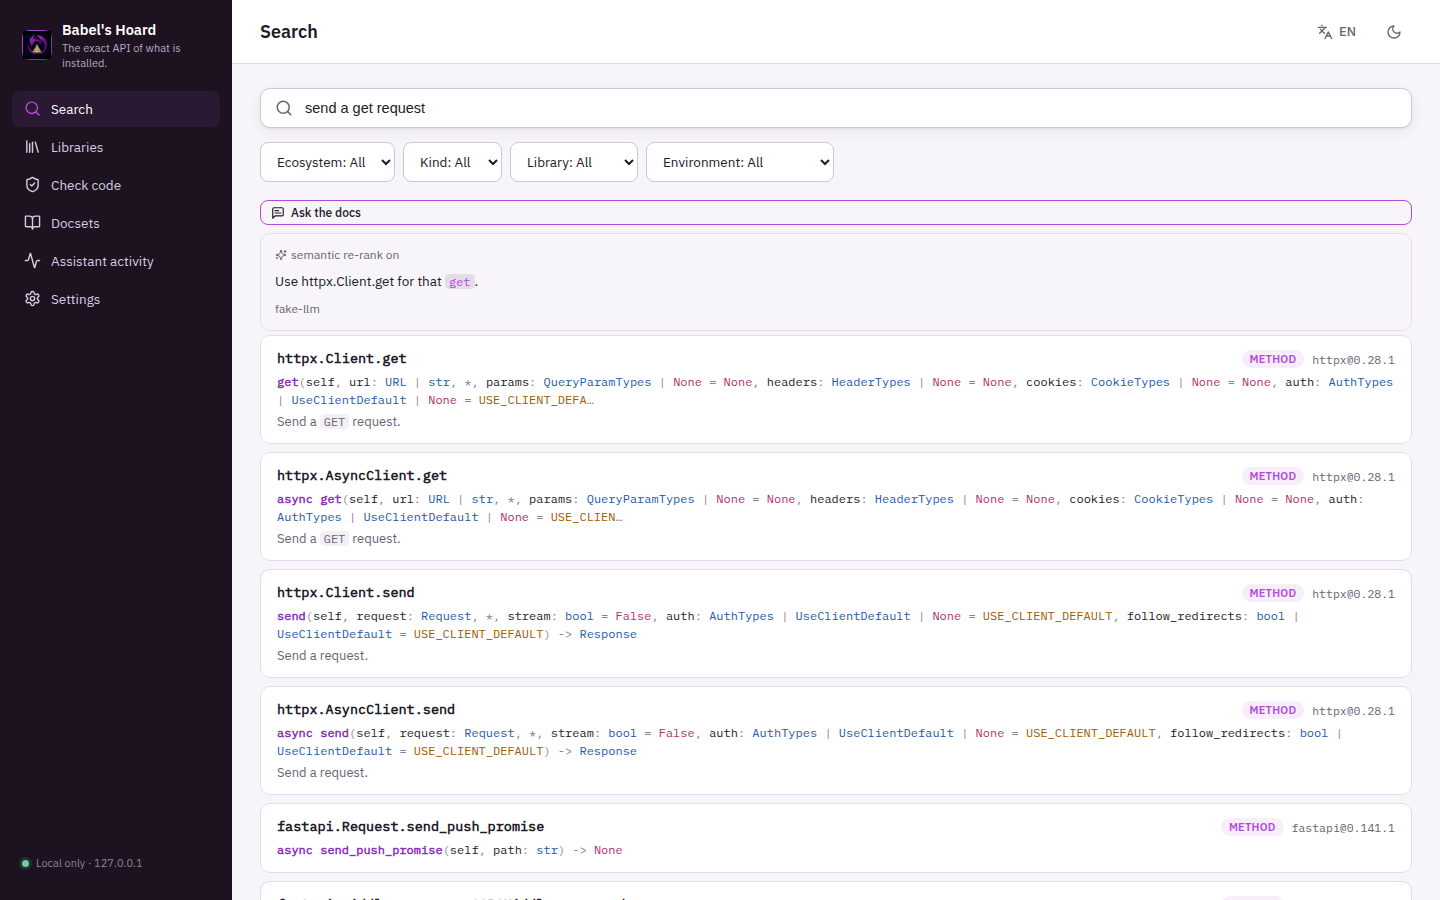
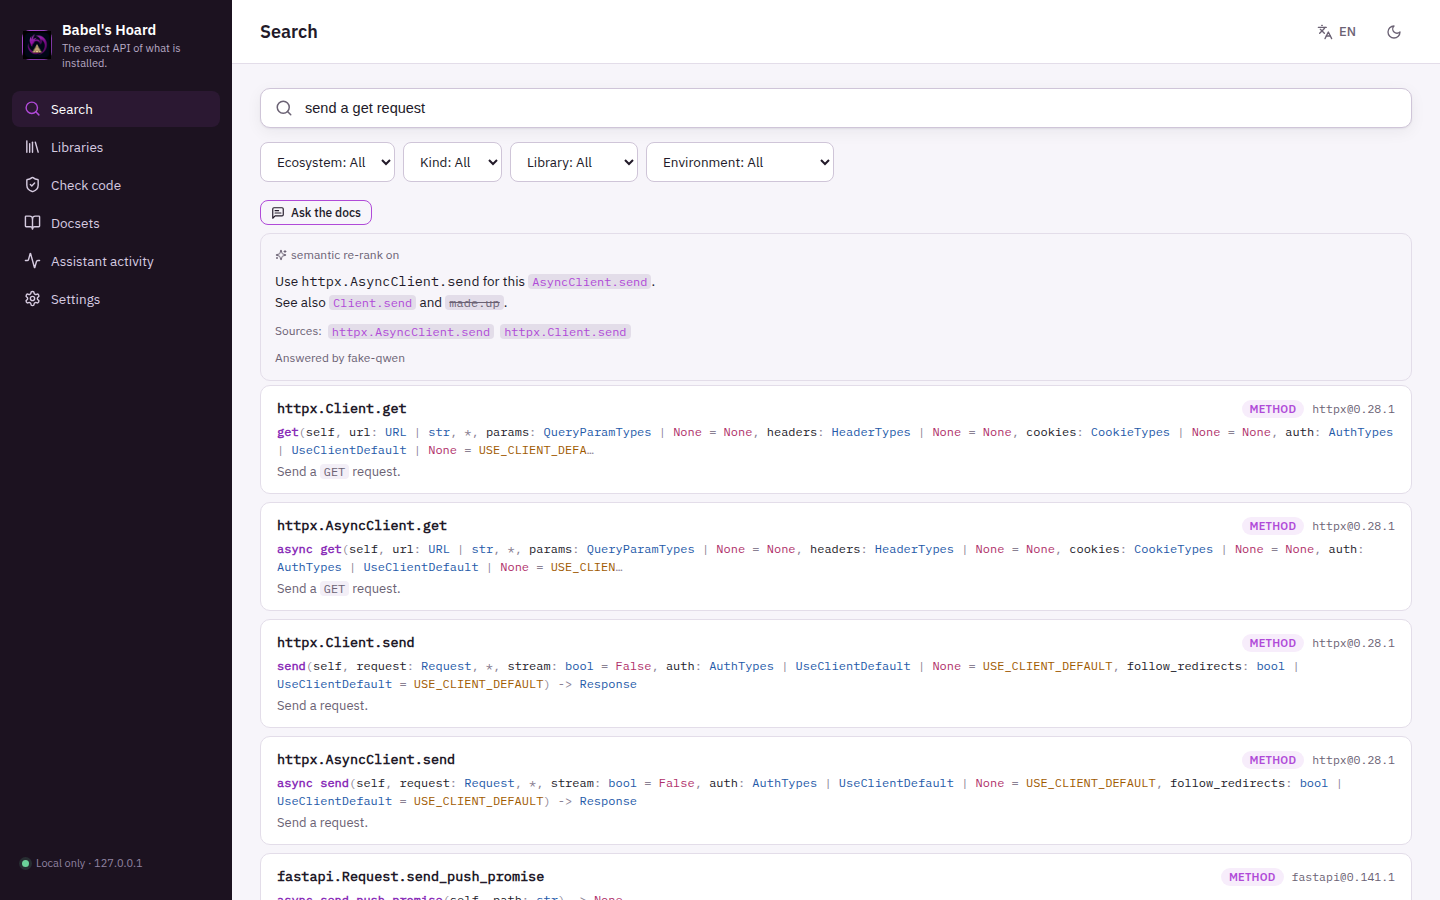
docs: describe the hybrid fusion and config safety, retake screenshots
READMEs and ARCHITECTURE now say what the code does after the review:
reciprocal-rank fusion instead of a pure cosine sort, cleared fields and
invalid values in the Models form, the broken-backend.json fallback, the
disabled (not hidden) Ask button, and the measured 126 tests. The loopback
list no longer names a specific third-party app. Screenshots retaken
against the --demo data with a local fake model server.

Claude-Session: https://claude.ai/code/session_019KVoFTp2agjwLaonbFXam5

diff --git a/README.es.md b/README.es.md
@@ -43,7 +43,7 @@ no puede demostrar se cuenta como `unchecked` (sin verificar).
 | Documentación sin conexión | Catálogo e instalación de DevDocs (HTML convertido a Markdown y dividido por anclas) como tarea en segundo plano | Necesita red, solo cuando lo pide el usuario o el modelo; el conversor es pequeño, no un renderizador HTML completo |
 | Carpetas de Markdown | `.md`/`.mdx`/`.rst`/`.txt` divididos por encabezado (respetando bloques de código y subrayados de rst) | Se omiten carpetas de dependencias, control de versiones y compilación; 2.000 archivos y 2 MB por archivo |
 | Auditoría del asistente | Cada llamada a `/api/agent/*` (herramienta, resumen de argumentos, duración, resultado) en «Actividad del asistente»; la interfaz usa sus propios endpoints, así que solo aparecen las llamadas del modelo | Solo local |
-| Preguntar a la documentación | Pantalla de Búsqueda: una pregunta se responde a partir de los mejores resultados de búsqueda (reordenados por el modelo de `embeddings` compartido cuando resuelve, o por orden léxico si no) con el modelo de `llm` compartido, con citas `[id]` que enlazan a la entrada exacta | Solo responde con lo ya indexado; es una función de la interfaz, no una herramienta MCP; se desactiva mostrando el motivo cuando ningún modelo resuelve |
+| Preguntar a la documentación | Pantalla de Búsqueda: una pregunta se responde a partir de los mejores resultados de búsqueda con el modelo de `llm` compartido, con citas `[id]` que enlazan a la entrada exacta (y una lista de Fuentes; un id inventado por el modelo aparece tachado). Cuando el modelo de `embeddings` compartido resuelve, los 50 mejores resultados léxicos se reordenan de forma híbrida (fusión por rango recíproco del orden léxico y el de embeddings, distintivo «reordenación semántica activa»); si no, orden léxico | Solo responde con lo ya indexado; es una función de la interfaz, no una herramienta MCP; se desactiva mostrando el motivo cuando ningún modelo resuelve |
 | Backend de modelos compartido | Ajustes → Modelos: qué servidor/modelo se usa ahora mismo para `llm`/`embeddings` y por qué, un botón «Comprobar de nuevo», ajustes manuales (URL/token de Faustus, URL/modelo por capacidad) | Ver [Modelos compartidos](#modelos-compartidos) más abajo |
 | Interfaz | Búsqueda, panel de símbolo, Librerías (paquetes instalados con su estado de indexado), Comprobar código (números de línea, avisos bajo cada línea), Docsets, Actividad del asistente y Ajustes; tema claro/oscuro, inglés/español | Un solo usuario, navegador local |
 
@@ -57,11 +57,14 @@ resultados de búsqueda primero (búsqueda híbrida) cuando hay uno
 disponible. Orden de resolución en una línea: un ajuste manual en Ajustes o
 en `backend.json`, luego el propio registro de modelos de una instancia de
 Faustus en marcha, luego un servidor ya escuchando en loopback (llama.cpp,
-Ollama, un servidor compatible con OpenAI) - **la aplicación
-funciona por completo sin ningún modelo conectado**; «Preguntar a la
-documentación» simplemente queda oculta tras un motivo honesto («No hay
-ningún modelo de lenguaje conectado...») y el resto de pantallas no se ven
-afectadas.
+Ollama, cualquier servidor compatible con OpenAI) - **la aplicación
+funciona por completo sin ningún modelo conectado**; el botón «Preguntar a
+la documentación» simplemente queda desactivado con un motivo honesto («No
+hay ningún modelo de lenguaje conectado...», y el detalle de la detección
+como descripción emergente) y el resto de pantallas no se ven afectadas. Un
+`backend.json` roto a mano nunca impide arrancar: la aplicación vuelve a la
+detección automática y Ajustes -> Modelos explica por qué se ignoró el
+archivo.
 
 ## Conectarlo a Faustus
 
@@ -141,7 +144,7 @@ las decisiones detrás del comprobador:
 .venv\Scripts\python -m pytest -q
 ```
 
-**121 tests, entre 50 y 85 s en un contenedor compartido de 2 CPU, sin red.** Cubren: la
+**126 tests, entre 50 y 85 s en un contenedor compartido de 2 CPU, sin red.** Cubren: la
 protección frente al navegador y el confinamiento de archivos estáticos
 (intentos de salir de la carpeta), la forma de los errores, las conexiones
 por hilo y que `/api/health` responda mientras corre una herramienta larga;
@@ -157,7 +160,9 @@ de JS/TS (requiere Node.js); el adaptador MCP lanzado con el **protocolo
 stdio real** contra la aplicación en marcha, incluidas palabras clave,
 anotaciones, ids que se pueden reutilizar y el paso de errores; y el
 backend de modelos compartido (`/api/backend*`, la persistencia de la
-configuración sin filtrar nunca el token de Faustus, y «Preguntar a la
+configuración sin filtrar nunca el token de Faustus, campos vaciados,
+valores no válidos rechazados antes de guardarse, un `backend.json` roto al
+arrancar, y «Preguntar a la
 documentación» - desactivada, pregunta vacía, sin resultados, filtrado de
 citas, reordenación híbrida y una llamada al modelo fallida - todo contra
 un Link simulado, sin red).

diff --git a/README.md b/README.md
@@ -43,7 +43,7 @@ counted as `unchecked`.
 | Offline docsets | DevDocs catalogue and install (HTML converted to Markdown, split by anchors) as a background job | Needs the network, only when the user or the model asks; converter is small, not a full HTML renderer |
 | Markdown folders | `.md`/`.mdx`/`.rst`/`.txt` split by heading (fenced code aware, rst underlines) | Dependency/VCS/build folders skipped; 2,000 files, 2 MB per file |
 | Assistant audit | Every `/api/agent/*` call (tool, argument summary, duration, result) in "Assistant activity"; the UI uses its own endpoints so only the model's calls appear | Local only |
-| Ask the docs | Search screen: a question is answered from the top search hits (re-ranked by the shared `embeddings` model when one resolves, otherwise lexical order) by the shared `llm` model, with citations `[id]` that link back to the exact entry | Answers only from what is already indexed; a UI feature, not an MCP tool; disabled with the reason shown when no model resolves |
+| Ask the docs | Search screen: a question is answered from the top search hits by the shared `llm` model, with citations `[id]` that link back to the exact entry (and a Sources list; an id the model invented is shown struck through). When the shared `embeddings` model resolves, the top 50 lexical hits are re-ranked hybrid (reciprocal-rank fusion of the lexical and embedding orders, "semantic re-rank on" badge); otherwise lexical order | Answers only from what is already indexed; a UI feature, not an MCP tool; disabled with the reason shown when no model resolves |
 | Shared model backend | Settings -> Models: which server/model is used for `llm`/`embeddings` right now and why, a Re-check button, manual overrides (Faustus URL/token, per-capability URL/model) | Read [Shared models](#shared-models) below |
 | UI | Search, symbol panel, Libraries (installed packages with index status), Check code (line numbers, findings under each line), Docsets, Assistant activity, Settings; light/dark, English/Spanish | Single user, local browser |
 
@@ -55,11 +55,13 @@ backend every Faustus plugin vendors: `llm` to answer, `embeddings` to
 semantically re-rank search hits first (hybrid search) when one is
 available. Resolution order in one line: an explicit override in Settings
 or `backend.json`, then a running Faustus instance's own model registry,
-then a shared server already listening on loopback (llama.cpp, Ollama, an
-OpenAI-compatible server) - **the app works fully
-without any model connected**; "Ask the docs" is simply hidden behind an
-honest reason ("No language model is connected...") and every other
-screen is unaffected.
+then a shared server already listening on loopback (llama.cpp, Ollama, any
+OpenAI-compatible server) - **the app works fully without any model
+connected**; the "Ask the docs" button is simply disabled with an honest
+reason ("No language model is connected...", plus the probe details as a
+tooltip) and every other screen is unaffected. A broken, hand-edited
+`backend.json` never stops the app: it falls back to auto-detection and
+Settings -> Models says why the file was ignored.
 
 ## Connect it to Faustus
 
@@ -137,7 +139,7 @@ Modules, data model and the decisions behind the checker:
 .venv\Scripts\python -m pytest -q
 ```
 
-**121 tests, 50-85 s in a shared 2-CPU container, offline.** They cover: the
+**126 tests, 50-85 s in a shared 2-CPU container, offline.** They cover: the
 browser guard and static-file confinement (path traversal attempts), error
 shapes, per-thread connections and a health check that answers while a
 long tool runs; indexing of real installed packages (httpx, pydantic,
@@ -151,7 +153,8 @@ search, docsets, markdown and JS/TS indexing (needs Node.js); the MCP
 adapter spawned over the **real stdio protocol** against a live app,
 including tool keywords, annotations, id round-trips and error pass-through;
 and the shared model backend (`/api/backend*`, config persistence that never
-leaks the Faustus token, and "Ask the docs" - disabled path, empty query,
+leaks the Faustus token, cleared fields, invalid values rejected before
+they are saved, a broken `backend.json` at startup, and "Ask the docs" - disabled path, empty query,
 no matching entries, citation filtering, hybrid re-rank, and a failed model
 call - all against a fake Link, offline).
 

diff --git a/docs/ARCHITECTURE.md b/docs/ARCHITECTURE.md
@@ -7,7 +7,7 @@ babels_hoard/
   __main__.py        python -m babels_hoard: port check, demo seeding, uvicorn on 127.0.0.1
   api.py             FastAPI app: browser guard, /api/agent/* (audited), UI endpoints, SPA hosting
   mcp_server.py      standalone stdio MCP adapter (stdlib + httpx + mcp only)
-  backend.py         the shared model backend: config.json read/write (token never leaves the
+  backend.py         the shared model backend: backend.json read/write (token never leaves the
                       process), the app's one Link, and "Ask the docs" (search + llm + embeddings)
   hoard_link/        vendored copy of Hoard Link (do not edit; see VENDORED.txt)
   db.py              schema (WAL, FTS5, trigram), in-place migrations, one connection per thread
@@ -186,15 +186,24 @@ test that never touches `/api/backend*` is unaffected). `GET /api/backend`
 reports only the two capabilities this app uses (`llm`, `embeddings`);
 `GET`/`PUT /api/backend/config` read and merge-write `backend.json`,
 replacing the Faustus token with a bare `token_set` boolean on the way out
-so it is never sent back to the browser.
+so it is never sent back to the browser. An empty string in a `PUT`
+removes that key (a cleared form field, or `faustus.token: ""` to forget
+the token); the merged file is written to `backend.json.tmp`, validated
+with `LinkConfig.load` and only then moved over the old one, so an invalid
+value is a 400 `bad_config` that leaves the working file and `Link`
+untouched. If the file on disk is already unusable (hand-edited),
+`build_link` falls back to env + auto-detection and `GET /api/backend`
+carries the loader's sentence as `config_error`.
 
 "Ask the docs" (`backend.ask_the_docs`) is a plain function over a
 `sqlite3.Connection`, a `Link` and `search.search` (no FastAPI import): it
 resolves `llm` first and returns an honest `{available: false, reason}`
 without ever calling the model when nothing resolves; otherwise it takes
 the top 50 FTS hits, and when `embeddings` also resolves, embeds the
-question and each hit's compact text and re-sorts by cosine similarity
-(hybrid search) - a failure here is swallowed and the endpoint falls back
+question and each hit's compact text and re-orders them by reciprocal-rank
+fusion (k = 60) of the lexical rank and the cosine-similarity rank (hybrid
+search: pure cosine let a small embedding model push exact identifier
+matches out of the six excerpts) - a failure here is swallowed and the endpoint falls back
 to lexical order rather than failing the whole answer. The top six entries
 become the model's only context; the answer is asked to cite their ids in
 `[brackets]`, and the response's `cited` list is filtered down to ids that
